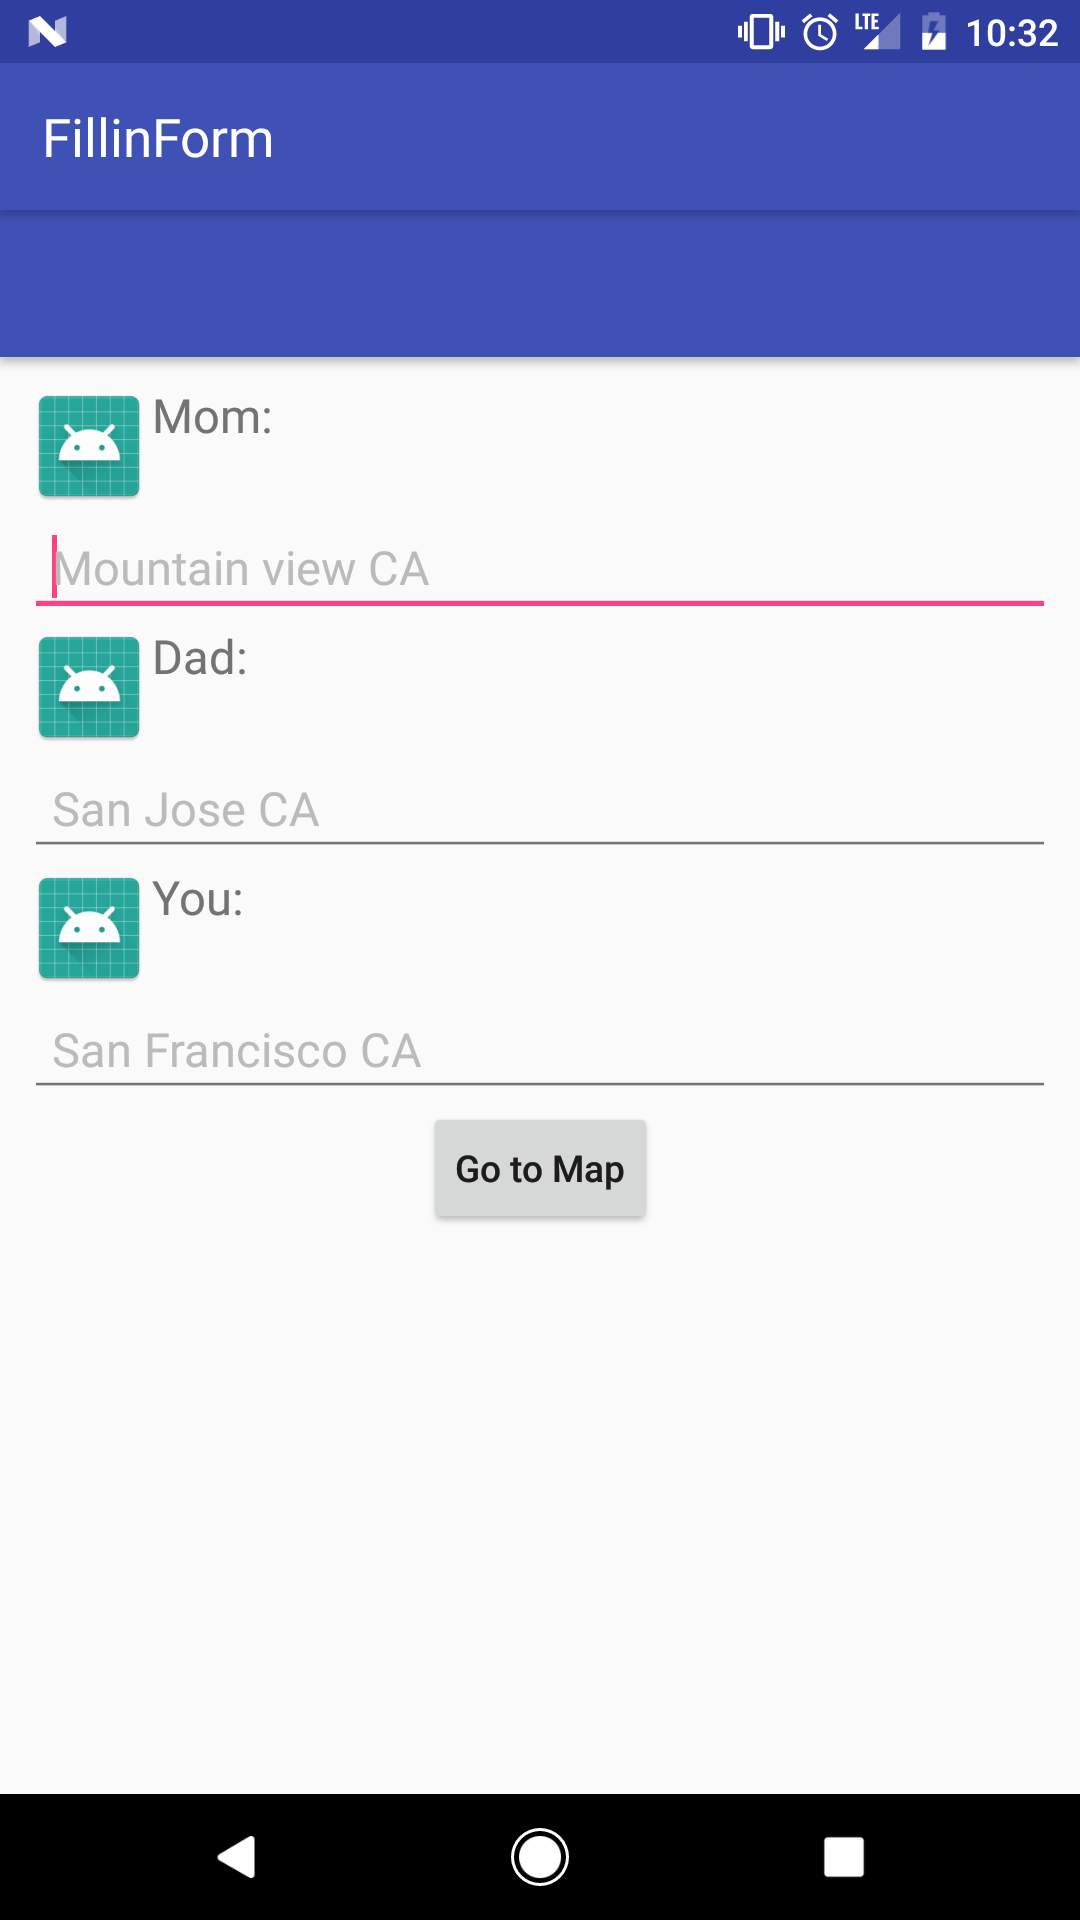
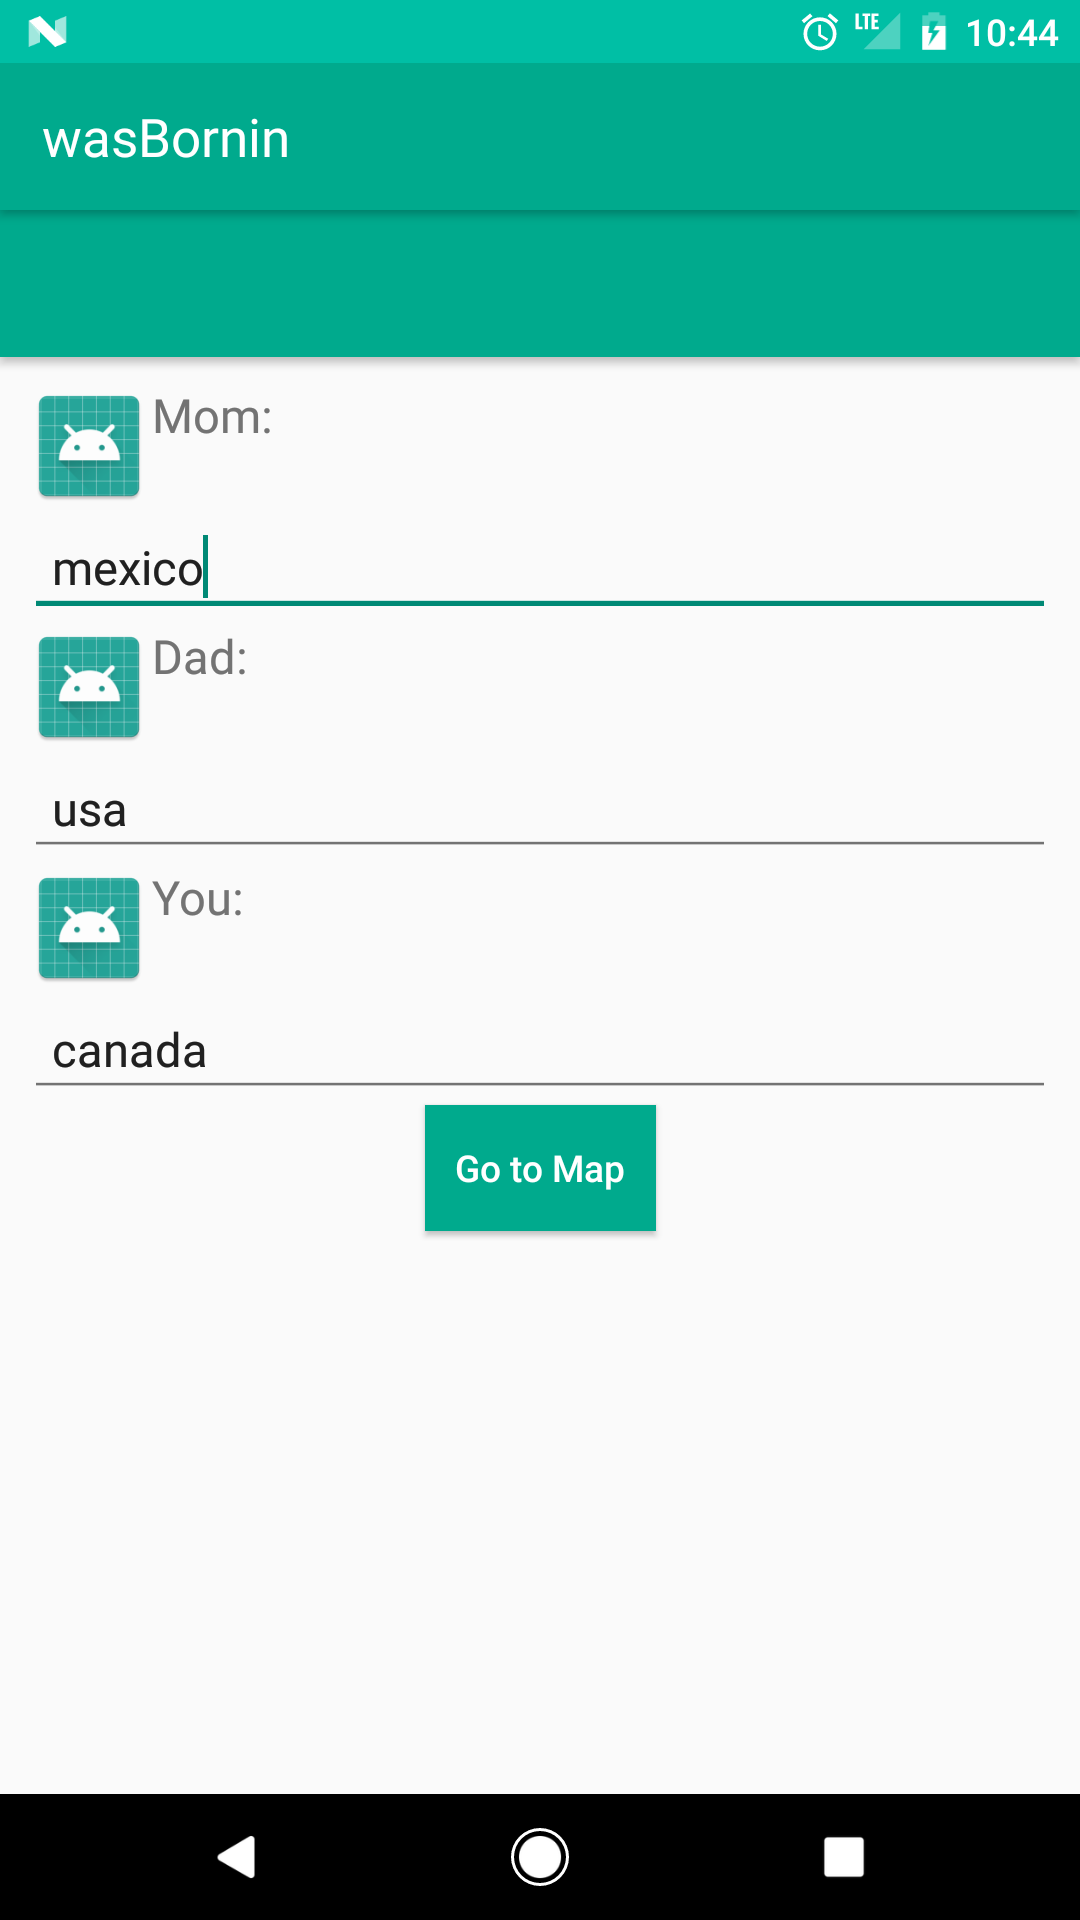
new UI colors

diff --git a/README.md b/README.md
@@ -31,3 +31,6 @@ https://drive.google.com/file/d/0B5XIkMkayHgRMVljUVIyZzNmQUU/view
 
 screenshot and share:
 http://www.androhub.com/take-a-screenshot-programmatically-in-android/
+
+material colors:
+https://material.io/guidelines/style/color.html#color-color-palette
